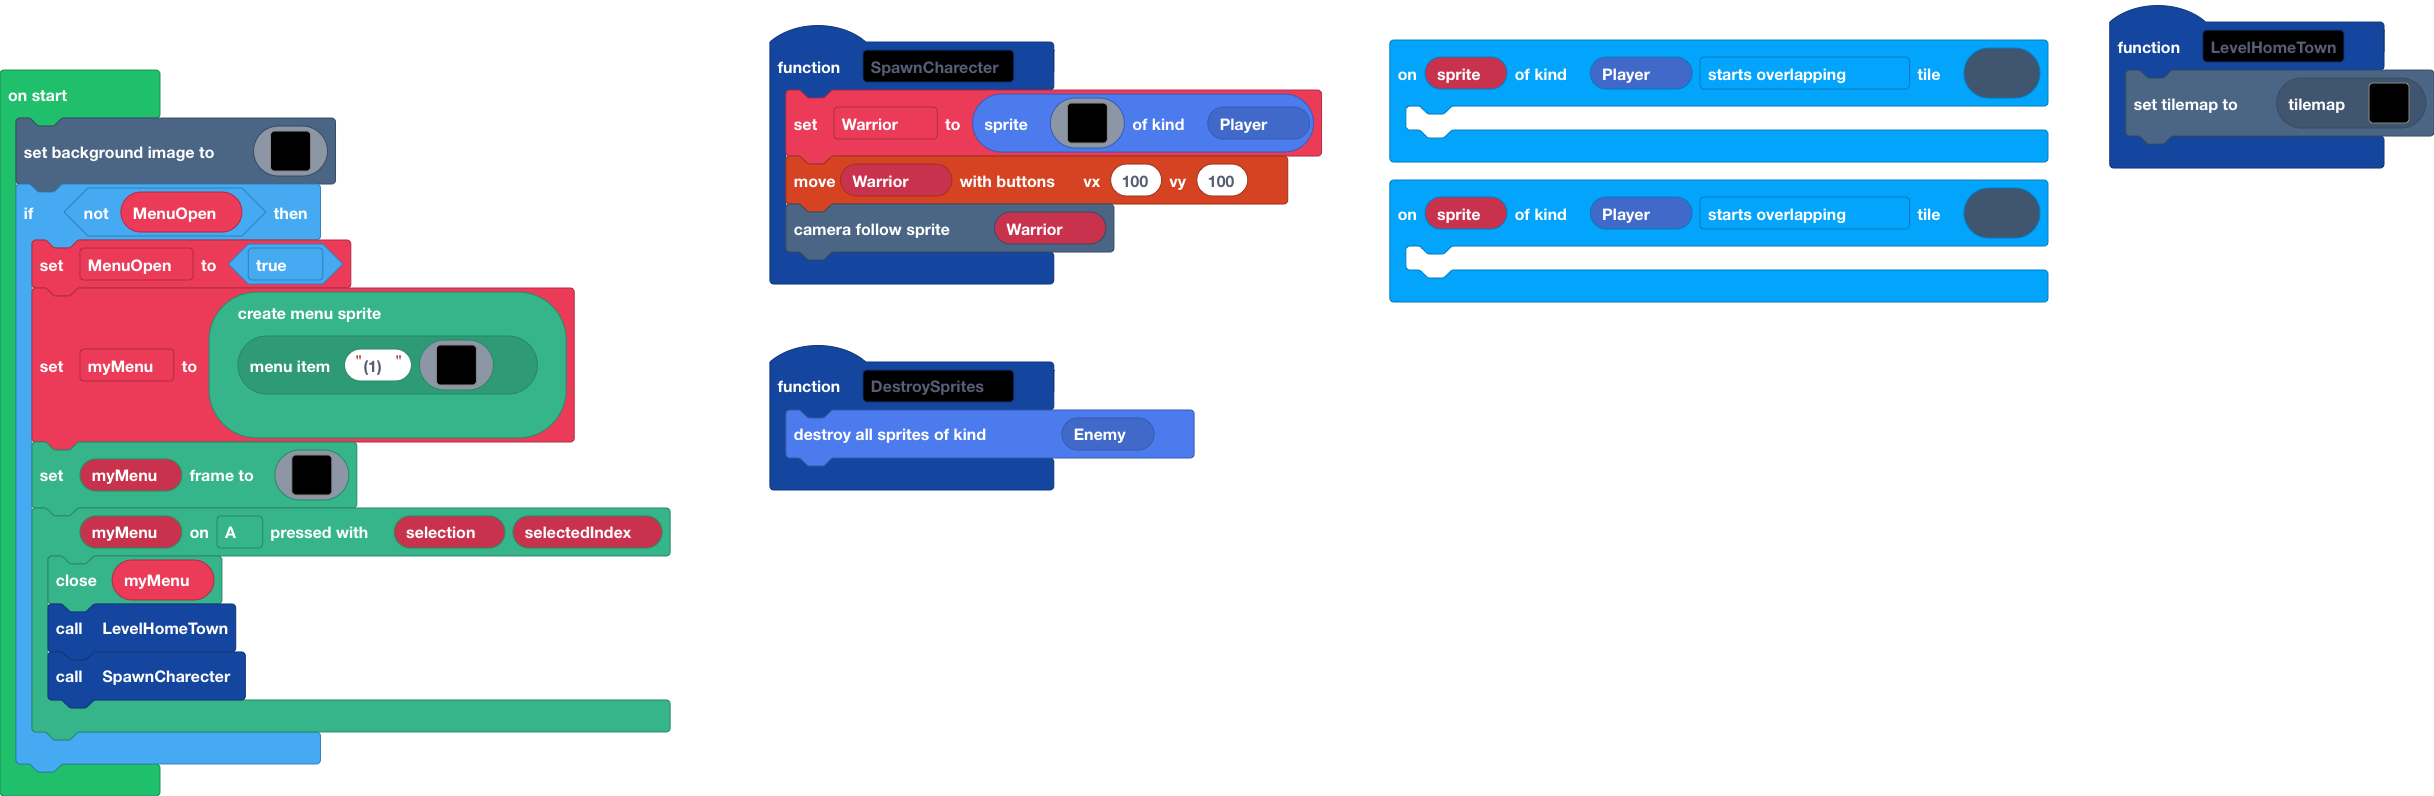
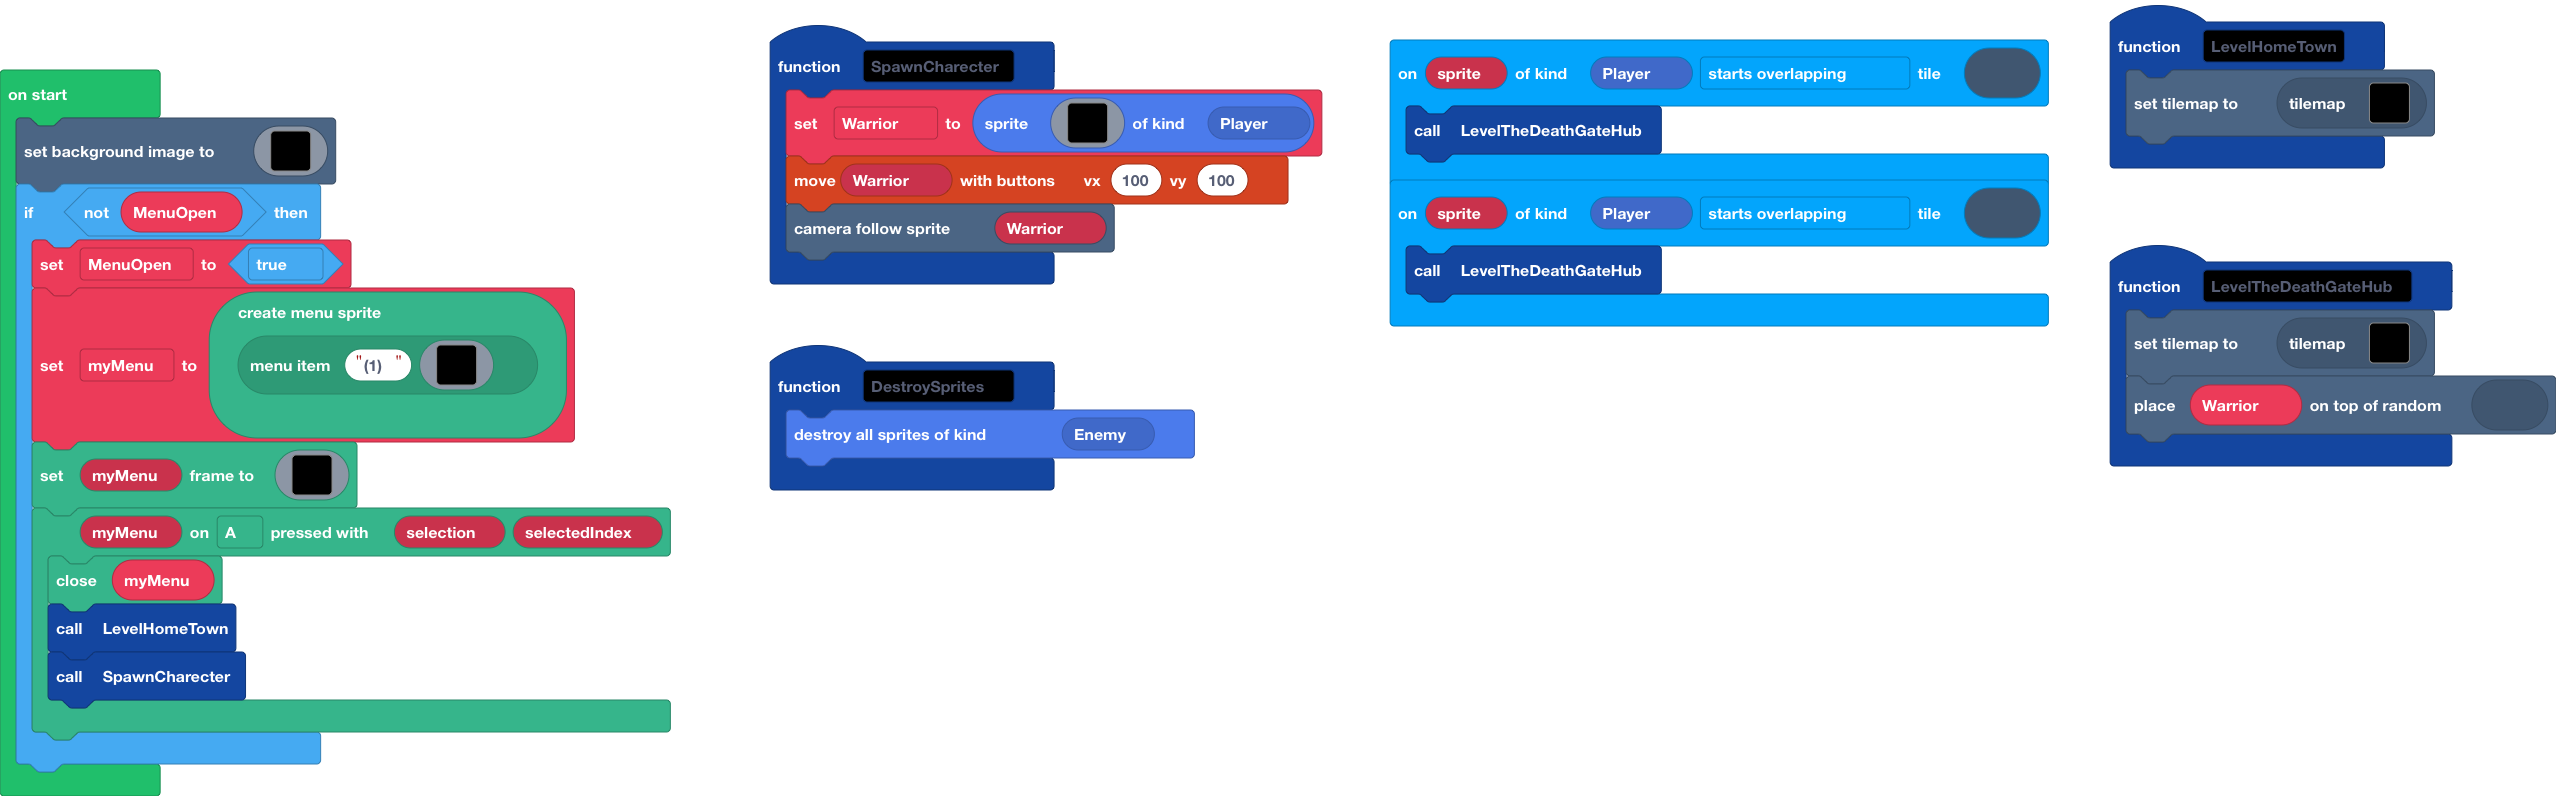
Created DeathGateHub

diff --git a/tilemap.g.ts b/tilemap.g.ts
@@ -3,13 +3,19 @@ namespace myTiles {
     //% fixedInstance jres blockIdentity=images._tile
     export const transparency16 = image.ofBuffer(hex``);
     //% fixedInstance jres blockIdentity=images._tile
-    export const tile1 = image.ofBuffer(hex``);
-    //% fixedInstance jres blockIdentity=images._tile
     export const tile2 = image.ofBuffer(hex``);
     //% fixedInstance jres blockIdentity=images._tile
     export const tile3 = image.ofBuffer(hex``);
     //% fixedInstance jres blockIdentity=images._tile
     export const tile4 = image.ofBuffer(hex``);
+    //% fixedInstance jres blockIdentity=images._tile
+    export const tile6 = image.ofBuffer(hex``);
+    //% fixedInstance jres blockIdentity=images._tile
+    export const tile5 = image.ofBuffer(hex``);
+    //% fixedInstance jres blockIdentity=images._tile
+    export const tile7 = image.ofBuffer(hex``);
+    //% fixedInstance jres blockIdentity=images._tile
+    export const tile8 = image.ofBuffer(hex``);
 
     helpers._registerFactory("tilemap", function(name: string) {
         switch(helpers.stringTrim(name)) {
@@ -51,6 +57,26 @@ namespace myTiles {
 . . . . . . . . . . . . . . . . 
 . . . . . . . . . . . . . . . . 
 `, [myTiles.transparency16,sprites.castle.tileGrass2,sprites.castle.tileGrass1,myTiles.tile3,myTiles.tile4], TileScale.Sixteen);
+            case "DeathGateHub":
[1 lines of base64/hex data omitted]
+2 2 2 2 2 2 2 2 2 2 2 2 2 2 2 2 2 
+2 . . . . . . . . . . . . . . . 2 
+2 . . . . . . . . . . . . . . . 2 
+2 . . . . . . . . . . . . . . . 2 
+2 . . . . . . . . . . . . . . . 2 
+2 . . . . . . . . . . . . . . . 2 
+2 . . . . . . . . . . . . . . . 2 
+2 . . . . . . . . . . . . . . . 2 
+2 . . . . . . . . . . . . . . . 2 
+2 . . . . . . . . . . . . . . . 2 
+2 . . . . . . . . . . . . . . . 2 
+2 . . . . . . . . . . . . . . . 2 
+2 . . . . . . . . . . . . . . . 2 
+2 . . . . . . . . . . . . . . . 2 
+2 . . . . . . . . . . . . . . . 2 
+2 . . . . . . . . . . . . . . . 2 
+2 2 2 2 2 2 2 2 2 2 2 2 2 2 2 2 2 
+`, [myTiles.transparency16,sprites.dungeon.floorDark2,sprites.dungeon.floorLight2,sprites.dungeon.floorDark0,sprites.dungeon.floorLightMoss,sprites.dungeon.floorDark1,sprites.dungeon.purpleOuterNorthEast,sprites.dungeon.purpleOuterSouthEast,sprites.dungeon.purpleOuterNorthWest,sprites.dungeon.purpleOuterWest0,sprites.dungeon.purpleOuterEast1,sprites.dungeon.purpleOuterNorth0,sprites.dungeon.purpleOuterSouthWest,sprites.dungeon.purpleOuterSouth1,sprites.dungeon.floorDark4,sprites.dungeon.floorDarkDiamond,sprites.dungeon.floorLight4,sprites.dungeon.floorLight5,sprites.dungeon.floorDark3,myTiles.tile5,myTiles.tile7,myTiles.tile8,sprites.dungeon.floorLight0], TileScale.Sixteen);
         }
         return null;
     })
@@ -58,14 +84,20 @@ namespace myTiles {
     helpers._registerFactory("tile", function(name: string) {
         switch(helpers.stringTrim(name)) {
             case "transparency16":return transparency16;
-            case "myTile":
-            case "tile1":return tile1;
             case "myTile0":
             case "tile2":return tile2;
             case "myTile1":
             case "tile3":return tile3;
             case "myTile2":
             case "tile4":return tile4;
+            case "myTile4":
+            case "tile6":return tile6;
+            case "myTile3":
+            case "tile5":return tile5;
+            case "myTile5":
+            case "tile7":return tile7;
+            case "myTile6":
+            case "tile8":return tile8;
         }
         return null;
     })

diff --git a/main.ts b/main.ts
@@ -7,7 +7,7 @@ namespace SpriteKind {
     export const Logo = SpriteKind.create()
 }
 events.tileEvent(SpriteKind.Player, assets.tile`myTile1`, events.TileEvent.StartOverlapping, function (sprite) {
-	
+    LevelTheDeathGateHub()
 })
 function LevelHomeTown () {
     tiles.setCurrentTilemap(tilemap`level1`)
@@ -16,7 +16,7 @@ function DestroySprites () {
     sprites.destroyAllSpritesOfKind(SpriteKind.Enemy)
 }
 events.tileEvent(SpriteKind.Player, assets.tile`myTile2`, events.TileEvent.StartOverlapping, function (sprite) {
-	
+    LevelTheDeathGateHub()
 })
 function SpawnCharecter () {
     Warrior = sprites.create(img`
@@ -39,6 +39,10 @@ function SpawnCharecter () {
         `, SpriteKind.Player)
     controller.moveSprite(Warrior, 100, 100)
     scene.cameraFollowSprite(Warrior)
+}
+function LevelTheDeathGateHub () {
+    tiles.setCurrentTilemap(tilemap`DeathGateHub`)
+    tiles.placeOnRandomTile(Warrior, sprites.dungeon.floorLight0)
 }
 let Warrior: Sprite = null
 let myMenu: miniMenu.MenuSprite = null
